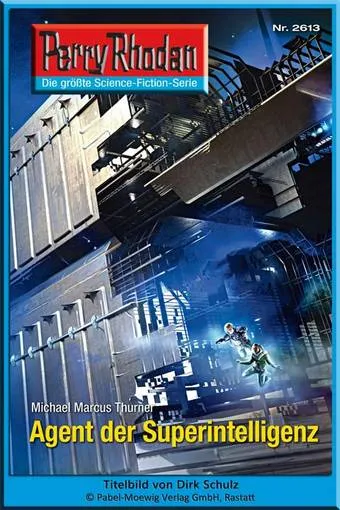
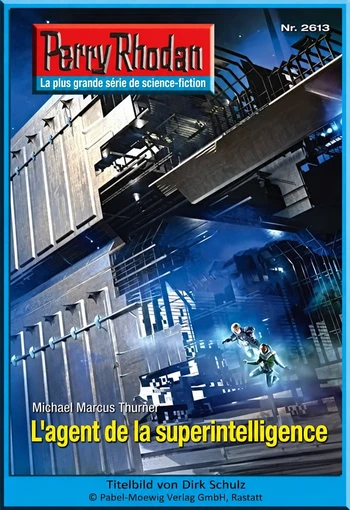
fix: translate covers 2613-2622

diff --git a/src/content/chapitres/de-2621.md b/src/content/chapitres/de-2621.md
@@ -4,11 +4,11 @@ cycleNumber: 37
 chapterNumber: 2621
 type: translation
 originalTitle: "Der Harmoniewächter"
-cover: "/images/covers/de-2621.webp"
+cover: "/images/covers/de-2621.webp?v=20261116-2621-fr"
 auteur: "Christian Montillon"
 parution: "2011-11-25"
 statut: traduit
-titleFr: "Perry 2621 - Le gardien de l’harmonie"
+titleFr: "Perry 2621 - Le gardien de l'harmonie"
 ---
 
 Sur la piste des années perdues – une chasse au-delà des limites

diff --git a/src/content/chapitres/de-2613.md b/src/content/chapitres/de-2613.md
@@ -4,11 +4,11 @@ cycleNumber: 37
 chapterNumber: 2613
 type: translation
 originalTitle: "Agent der Superintelligenz"
-cover: "/images/covers/de-2613.webp"
+cover: "/images/covers/de-2613.webp?v=20261116-2613-fr"
 auteur: "Michael Marcus Thurner"
 parution: "2011-09-30"
 statut: traduit
-titleFr: "Perry 2613 - L’agent de la Superintelligence"
+titleFr: "Perry 2613 - L'agent de la superintelligence"
 ---
 
 Agent de la superintelligence

diff --git a/src/content/chapitres/de-2620.md b/src/content/chapitres/de-2620.md
@@ -4,11 +4,11 @@ cycleNumber: 37
 chapterNumber: 2620
 type: translation
 originalTitle: "Fremde in der Harmonie"
-cover: "/images/covers/de-2620.webp"
+cover: "/images/covers/de-2620.webp?v=20261116-2620-fr"
 auteur: "Christian Montillon"
 parution: "2011-11-18"
 statut: traduit
-titleFr: "*Des étrangers dans l’Harmonie*"
+titleFr: "Perry 2620 - Des étrangers dans l'Harmonie"
 ---
 
 *Des étrangers dans l’Harmonie*

diff --git a/src/content/chapitres/de-2617.md b/src/content/chapitres/de-2617.md
@@ -4,11 +4,11 @@ cycleNumber: 37
 chapterNumber: 2617
 type: translation
 originalTitle: "Der dunkelste aller Tage"
-cover: "/images/covers/de-2617.webp"
+cover: "/images/covers/de-2617.webp?v=20261116-2617-fr"
 auteur: "Hubert Haensel"
 parution: "2011-10-28"
 statut: traduit
-titleFr: "Le jour le plus sombre de tous"
+titleFr: "Perry 2617 - Le jour le plus sombre de tous"
 ---
 
 Le jour le plus sombre de tous

diff --git a/src/content/chapitres/de-2615.md b/src/content/chapitres/de-2615.md
@@ -4,11 +4,11 @@ cycleNumber: 37
 chapterNumber: 2615
 type: translation
 originalTitle: "Todesjagd auf Rhodan"
-cover: "/images/covers/de-2615.webp"
+cover: "/images/covers/de-2615.webp?v=20261116-2615-fr"
 auteur: "Markus Heitz"
 parution: "2011-10-14"
 statut: traduit
-titleFr: "Chasse mortelle contre Rhodan"
+titleFr: "Perry 2615 - Chasse mortelle contre Rhodan"
 ---
 
 Chasse mortelle contre Rhodan

diff --git a/src/content/chapitres/de-2616.md b/src/content/chapitres/de-2616.md
@@ -4,11 +4,11 @@ cycleNumber: 37
 chapterNumber: 2616
 type: translation
 originalTitle: "Countdown für Sol"
-cover: "/images/covers/de-2616.webp"
+cover: "/images/covers/de-2616.webp?v=20261116-2616-fr"
 auteur: "Arndt Ellmer"
 parution: "2011-10-21"
 statut: traduit
-titleFr: "Compte à rebours pour Sol"
+titleFr: "Perry 2616 - Compte à rebours pour Sol"
 ---
 
 Compte à rebours pour Sol

diff --git a/src/content/chapitres/de-2618.md b/src/content/chapitres/de-2618.md
@@ -4,11 +4,11 @@ cycleNumber: 37
 chapterNumber: 2618
 type: translation
 originalTitle: "Flucht von der Brückenwelt"
-cover: "/images/covers/de-2618.webp"
+cover: "/images/covers/de-2618.webp?v=20261116-2618-fr"
 auteur: "Verena Themsen"
 parution: "2011-11-04"
 statut: traduit
-titleFr: "La Fuite du Monde-Pont"
+titleFr: "Perry 2618 - La fuite du Monde-Pont"
 ---
 
 La Fuite du Monde-Pont

diff --git a/src/content/chapitres/de-2622.md b/src/content/chapitres/de-2622.md
@@ -4,11 +4,11 @@ cycleNumber: 37
 chapterNumber: 2622
 type: translation
 originalTitle: "Die Rebellen von Escalian"
-cover: "/images/covers/de-2622.webp"
+cover: "/images/covers/de-2622.webp?v=20261116-2622-fr"
 auteur: "Uwe Anton"
 parution: "2011-12-02"
 statut: traduit
-titleFr: "Les rebelles d’Escalian"
+titleFr: "Perry 2622 - Les rebelles d'Escalian"
 ---
 
 Les rebelles d’Escalian

diff --git a/src/content/chapitres/de-2619.md b/src/content/chapitres/de-2619.md
@@ -4,11 +4,11 @@ cycleNumber: 37
 chapterNumber: 2619
 type: translation
 originalTitle: "Planet der Formatierer"
-cover: "/images/covers/de-2619.webp"
+cover: "/images/covers/de-2619.webp?v=20261116-2619-fr"
 auteur: "Wim Vandemaan"
 parution: "2011-11-11"
 statut: traduit
-titleFr: "Planète des formateurs"
+titleFr: "Perry 2619 - Planète des formateurs"
 ---
 
 Planète des formateurs

diff --git a/src/content/chapitres/de-2614.md b/src/content/chapitres/de-2614.md
@@ -4,7 +4,7 @@ cycleNumber: 37
 chapterNumber: 2614
 type: translation
 originalTitle: "Navigator Quistus"
-cover: "/images/covers/de-2614.webp"
+cover: "/images/covers/de-2614.webp?v=20261116-2614-fr"
 auteur: "Christian Montillon"
 parution: "2011-10-07"
 statut: traduit
